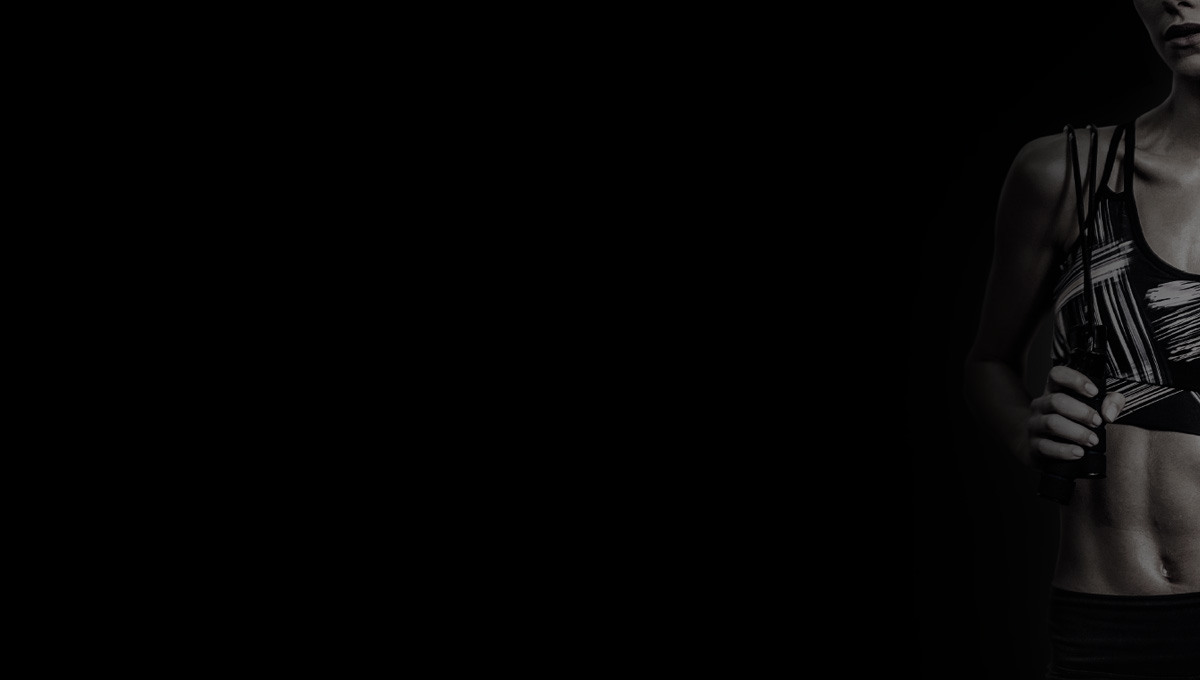
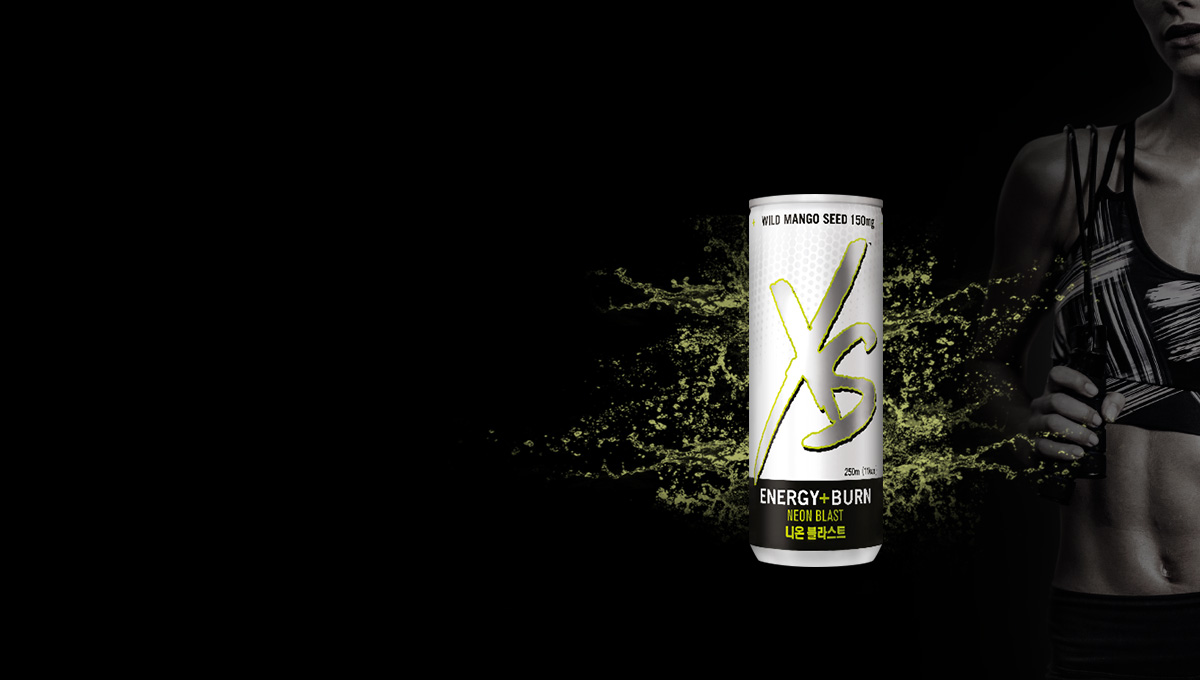
xs에너지 드링크

Changed region(s): [[0.4625, 0.2779, 0.8942, 0.8338]]

diff --git a/_ui/responsive/html/brand/B20306.html b/_ui/responsive/html/brand/B20306.html
@@ -145,30 +145,53 @@
 				<div class="tab-content tabs-content-blocks">
 					<div class="tab-pane content-block active">
 <style>
-.xsenergy .item .txt-wrap .ex-wrap span:before {content:'';display:inline-block;position:absolute;top:0;}
+.xs_subpage .item .txt-wrap .ex-wrap span:before,
+.xs_subpage .item .ex-wrap2 .icon-wrap span:before {content:'';display:inline-block;position:absolute;top:0;}
 /* owl */
-.xsenergy .owl-nav .owl-prev, .xsenergy .owl-nav .owl-next,
-.xsenergy .owl-nav .owl-prev:hover, .xsenergy .owl-nav .owl-next:hover {height:45px;width:20px; background-size:20px 43px !important;}
-.xsenergy .owl-dots {left:auto;right:auto;width:100%;text-align:center;}
-.xsenergy .owl-dots .owl-dot.active span {background:#fff;} 
+.xs_subpage .owl-nav .owl-prev, .xs_subpage .owl-nav .owl-next,
+.xs_subpage .owl-nav .owl-prev:hover, .xs_subpage .owl-nav .owl-next:hover {top:33%;height:45px;width:20px; background-size:20px 43px !important;}
+.xs_subpage .owl-dots {left:auto;right:auto;top:630px;width:100%;text-align:center;}
+.xs_subpage .owl-dots .owl-dot.active span {background:#fff;} 
 
-.xsenergy .wide3 {width:100%;}
-.xsenergy .item {position:relative;} 
-.xsenergy .item .view-img-item img {display:block;position:absolute;top:50%;right:10%;transform:translateY(-50%);width:auto;}
-.xsenergy .item .txt-wrap {padding:50px 95px;}
-.xsenergy .item .txt-wrap .view-img-item img {width:auto;}
-.xsenergy .item .txt-wrap > p:nth-of-type(1) {color: transparent;margin-bottom:40px;width:126px;height:31px;background:url('/_ui/responsive/theme-blue/images/akl_brand/xs_energy/img_logo1.png') no-repeat 0 0;}
-.xsenergy .item .txt-wrap > p:nth-of-type(2) {margin-bottom:10px;font-size:18px;}
-.xsenergy .item .txt-wrap > p:nth-of-type(3) {margin-bottom:40px;font-size:16px;font-weight:400;color:#bbb;}
-.xsenergy .item .txt-wrap > h2 {margin:0 0 30px;font-size:50px;font-weight:700;color:#c3d200;}
-.xsenergy .item .txt-wrap > p:nth-of-type(4) {margin:40px 0 50px;}
-.xsenergy .item .txt-wrap .ex-wrap span{position:relative;display:inline-block;padding-top:80px;width:80px;color:#bbb;font-size:14px;font-weight:400;text-align:center;}
-.xsenergy .item .txt-wrap .ex-wrap span:before {margin:auto;width:60px;height:60px;background:url('/_ui/responsive/theme-blue/images/akl_brand/xs_energy/xs_icon01.png') no-repeat 0 10px;}
-.xsenergy .item .txt-wrap .ex-wrap span:nth-child(2):before {background-position-x:-90px;}
-.xsenergy .item .txt-wrap .ex-wrap span:nth-child(3):before {background-position-x:-180px;}
+
+.xs_subpage {position:relative;}
+.xs_subpage .main-brn-wrap {width:100%;}
+.xs_subpage .item {position:relative;}
+.xs_subpage .item section:nth-child(1) {height:680px;background:url(/_ui/responsive/theme-blue/images/akl_brand/xs_energy/img_drink_bnr01.jpg) no-repeat 100% 0;} 
+.xs_subpage .item .txt-wrap {padding:50px 95px;}
+.xs_subpage .item .txt-wrap > p:nth-of-type(1) {color: transparent;margin-bottom:40px;width:126px;height:31px;background:url('/_ui/responsive/theme-blue/images/akl_brand/xs_energy/img_logo1.png') no-repeat 0 0;}
+.xs_subpage .item .txt-wrap > p:nth-of-type(2) {margin-bottom:10px;font-size:18px;}
+.xs_subpage .item .txt-wrap > p:nth-of-type(3) {margin-bottom:40px;font-size:16px;font-weight:400;color:#bbb;}
+.xs_subpage .item .txt-wrap > h2 {margin:0 0 30px;font-size:50px;font-weight:700;color:#c3d200;}
+.xs_subpage .item .txt-wrap > p:nth-of-type(4) {margin:40px 0 50px;}
+.xs_subpage .item .txt-wrap .ex-wrap span{position:relative;display:inline-block;padding-top:80px;width:80px;color:#bbb;font-size:14px;font-weight:400;text-align:center;}
+.xs_subpage .item .txt-wrap .ex-wrap span:before {margin:auto;width:60px;height:60px;background:url('/_ui/responsive/theme-blue/images/akl_brand/xs_energy/xs_icon01.png') no-repeat 0 10px;}
+.xs_subpage .drink1 .txt-wrap .ex-wrap span:nth-child(1):before {background-position-x:0px;}
+.xs_subpage .drink1 .txt-wrap .ex-wrap span:nth-child(2):before {background-position-x:-90px;}
+.xs_subpage .drink1 .txt-wrap .ex-wrap span:nth-child(3):before {background-position-x:-180px;}
+
+.xs_subpage .item section:nth-child(2) {width:-webkit-calc(100% - 33.33%);width:calc(100% - 33.33%);position:relative;}
+.xs_subpage .item .ex-wrap2 {position:absolute;top:0;left:0;width:100%;text-align:center;word-wrap:break-word;}
+.xs_subpage .item .ex-wrap2 > p {margin-top:6%;font-size:22px;font-weight:500;letter-spacing:0}
+.xs_subpage .drink1 .ex-wrap2 > p span {color:#c3d200;}
+.xs_subpage .drink2 .ex-wrap2 > p span {color:#c3d200;}
+.xs_subpage .drink3 .ex-wrap2 > p span {color:#c3d200;}
+.xs_subpage .drink4 .ex-wrap2 > p span {color:#c3d200;}
+.xs_subpage .item .ex-wrap2 .icon-wrap {margin:6% auto 0;text-align:center;}
+.xs_subpage .item .ex-wrap2 .icon-wrap span {position:relative;display:inline-block;padding-top:95px;width:120px;font-size:16px;line-height:1.5;vertical-align:top;letter-spacing:-2px;}
+.xs_subpage .item .ex-wrap2 .icon-wrap span:before {width:84px;height:84px;left:50%;margin-left:-42px;background:url('/_ui/responsive/theme-blue/images/akl_brand/xs_energy/xs_icon01.png') no-repeat -270px 0;}
+.xs_subpage .drink1 .ex-wrap2 .icon-wrap span:nth-child(1):before {background-position-x:-270px;}
+.xs_subpage .drink1 .ex-wrap2 .icon-wrap span:nth-child(2):before {background-position-x:-360px;}
+.xs_subpage .drink1 .ex-wrap2 .icon-wrap span:nth-child(3):before {background-position-x:-450px;}
+.xs_subpage .drink1 .ex-wrap2 .icon-wrap span:nth-child(4):before {background-position-x:-540px;}
+.xs_subpage .drink1 .ex-wrap2 .icon-wrap span:nth-child(5):before {background-position-x:-630px;}
+
+.xs_subpage .video1 {position:absolute;top:680px;right:0;}
+.xs_subpage .video1.rela {position:relative;top:auto;right:auto;}
+
 
 /* 상품에 따라 칼라, 아이콘 변경 */
-.drink1 {}
+.drink1 {}/*color:#c3d200*/
 .drink2 {}
 .drink3 {}
 .drink4 {}
@@ -179,59 +202,78 @@
 .nuts {}
 .chip {}
 
+@media (max-width: 1024px){
+	.xs_subpage .item .txt-wrap {padding-top:25px;padding-left:50px;}
+	.xs_subpage .item section:nth-child(2) {width:100% !important;}
+	.xs_subpage .video1 {position:relative;top:auto;right:auto;}
+}
+
+
 </style>
-						<ul class="xsenergy_mainlist xsenergy">
-							<li class="wide3">
+						<ul class="xsenergy_mainlist xs_subpage">
+							<li class="main-brn-wrap">
 								<div id="banner_list" class="owl-carousel owl-theme">
+									<!-- item1 -->
 									<div class="item drink1">
-										<img class="" src="/_ui/responsive/theme-blue/images/akl_brand/xs_energy/img_drink_bnr01.jpg" alt="">
-										<div class="view-img-item"><img class="" src="/_ui/responsive/theme-blue/images/akl_brand/xs_energy/img_drink_bnr01_item.png" alt=""></div>
-										<div class="txt-wrap">
-											<p>XS ENERGY</p>
-											<p>초콜릿의 달콤함과 풍부한 식감으로 에너지 UP!</p>
-											<h2>XS 에너지 바</h2>
-											<p>- 초콜릿 엔로빙으로 한층 더 부드러워진 풍미<br>
-												- 오트(귀리) 퍼프로 더 크런치해진 식감<br>
-												- 비타민 B군 함유로 에너지 플러스(나이아신, 판토텐산,비타민 B2)
-											</p>
-											<p><a href="#" class="bt-akl-blue">구매하기</a></p>
-											<p class="ex-wrap"><span>와일드 <br>망고씨유 함유</span><span>카페인 <br>0mg</span><span>풍부한 <br>비타민B</span></p>
-										</div>
+										<section>
+											<div class="view-img"><img class="mob" src="" alt="XSenergy+burn 네온 블라스트"></div>
+											<div class="txt-wrap">
+												<p>XS ENERGY</p>
+												<p>XS 네온 블라스트로 에너지 BURN!</p>
+												<h2>XS NEON BLAST</h2>
+												<p>CALORIE DOWN! ENERGY UP!</p>
+												<p><a href="http://www.abnkorea.co.kr/shop/nutrition-health/xs-energy/p/284571K" class="bt-akl-blue">구매하기</a></p>
+												<p class="ex-wrap"><span>와일드 <br>망고씨유 함유</span><span>카페인 <br>0mg</span><span>풍부한 <br>비타민B</span></p>
+											</div>
+										</section>
+										<section>
+											<div class="view-img"><img src="/_ui/responsive/theme-blue/images/akl_brand/xs_energy/img_drink_bnr01_bg.jpg" alt="" /></div>
+											<div class="ex-wrap2">
+												<p><span>XS RED BLAST</span>가 필요할 때!</p>
+												<div class="icon-wrap">
+													<span>몸매 관리에 관심이 있을 때</span>
+													<span>운동 전/후 에너지 번이 필요할 때</span>
+													<span>기분 전환이 필요할 때</span>
+													<span>가벼워진 기분을 느끼고 싶을 때</span>
+													<span>야외활동이 기다리고 있을 때</span>
+												</div>
+											</div>
+										</section>
 									</div>
+									<!-- item1 -->
 									<div class="item drink2">
-										<div class="item ">
-										<img class="" src="/_ui/responsive/theme-blue/images/akl_brand/xs_energy/img_drink_bnr02.jpg" alt="">
-										<div class="view-img-item"><img class="" src="/_ui/responsive/theme-blue/images/akl_brand/xs_energy/img_drink_bnr02_item.png" alt=""></div>
-										<div class="txt-wrap">
-											<p>XS ENERGY</p>
-											<p>초콜릿의 달콤함과 풍부한 식감으로 에너지 UP!</p>
-											<h2>XS 에너지 바</h2>
-											<p>- 초콜릿 엔로빙으로 한층 더 부드러워진 풍미<br>
-												- 오트(귀리) 퍼프로 더 크런치해진 식감<br>
-												- 비타민 B군 함유로 에너지 플러스(나이아신, 판토텐산,비타민 B2)
-											</p>
-											<p><a href="#" class="bt-akl-blue">구매하기</a></p>
-											<p class="ex-wrap"><span>와일드 <br>망고씨유 함유</span><span>카페인 <br>0mg</span><span>풍부한 <br>비타민B</span></p>
-										</div>
+										<section>
+											<div class="view-img"><img class="mob" src="" alt="XSenergy+burn 레드 블라스트"></div>
+											<div class="txt-wrap">
+												<p>XS ENERGY</p>
+												<p>XS 레드 블라스트로 에너지 BURN!</p>
+												<h2>XS RED BLAST</h2>
+												<p>CALORIE DOWN! ENERGY UP!</p>
+												<p><a href="http://www.abnkorea.co.kr/shop/nutrition-health/xs-energy/p/284571K" class="bt-akl-blue">구매하기</a></p>
+												<p class="ex-wrap"><span>와일드 <br>망고씨유 함유</span><span>카페인 <br>0mg</span><span>풍부한 <br>비타민 C</span><span>풍부한 <br>비타민 B</span></p>
+											</div>
+										</section>
+										<section>
+											<div class="view-img"><img src="/_ui/responsive/theme-blue/images/akl_brand/xs_energy/img_drink_bnr01_bg.jpg" alt="" /></div>
+											<div class="ex-wrap2">
+												<p><span>XS RED BLAST</span>가 필요할 때!</p>
+												<div class="icon-wrap">
+													<span>몸매 관리에 관심이 있을 때</span>
+													<span>운동 전/후 에너지 번이 필요할 때</span>
+													<span>기분 전환이 필요할 때</span>
+													<span>가벼워진 기분을 느끼고 싶을 때</span>
+													<span>야외활동이 기다리고 있을 때</span>
+												</div>
+											</div>
+										</section>
 									</div>
+									<!-- item1 -->
 									<div class="item">
 									</div>
+									
 								</div>
 							</li>
-							<li class="wide1">
-								<div id="banner_list2" class="owl-carousel owl-theme">
-									<div class="item drink1">
-										<div class="view-img"><img src="/_ui/responsive/theme-blue/images/akl_brand/xs_energy/img_drink_bnr01_bg.jpg" alt="" /></div>
-									</div>
-									<div class="item drink2">
-										<div class="view-img">22</div>
-									</div>
-									<div class="item">
-										<div class="view-img"><img src="/_ui/responsive/theme-blue/images/akl_brand/xs_energy/img_drink_bnr01_bg.jpg" alt="" /></div>
-									</div>
-								</div>
-							</li>
-							<li>
+							<li class="video1">
 								<div class="view-img"><img src="/_ui/responsive/theme-blue/images/akl_brand/xs_energy/img_bnr06.jpg" alt="" /></div>
 								<div class="txt-wrap">
 									<em>MULTIMEDIA</em><span>[XS Energy Drink]<br>5K Night Run 하이라이트 영상</span>
@@ -305,15 +347,15 @@
 				margin: 0,
 				items: 1
 			});
-			$('#banner_list2').owlCarousel({
-				loop: false,
-				nav: false,
-				dots: false,
-				//autoplay: true,
-				//autoplayTimeout:5000,
-				margin: 0,
-				items: 1
-			});
+			
+			/*var video1 = $('.xsenergy_mainlist li.video1');
+			var mainbnr =   $('.main-brn-wrap .item section:first-child');
+			var mainbnrHeight = mainbnr.height();
+			*/
+			
+			//
+			
+			
 		})
 	</script>
 	

diff --git a/_ui/responsive/theme-blue/css/akl-brand.css b/_ui/responsive/theme-blue/css/akl-brand.css
@@ -16,7 +16,7 @@ Editor : HYEWON HWANG
 .brand .full {width:100%;}
 .brand .inblock {display:inline-block;}
 
-.brand {letter-spacing:-1px;word-spacing:1px;}
+.brand {letter-spacing:-1px;}
 .arr1 {position:relative;display:inline-block;} /* 오른쪽 화살표 > */
 .arr1:after {content:'';position:absolute;top:50%;right:-9px;width:7px;height:7px;transform:rotate(45deg) translatey(-50%);border:2px solid #fff;border-width:2px 2px 0 0;}
 
@@ -464,7 +464,7 @@ Editor : HYEWON HWANG
 .atmosphere .txtbox.s3 div {left:19%;top:35%;}
 
 /* XS 에너지 */
-.xsenergy_mainlist {width:100%;overflow:hidden;background:#000;}
+.xsenergy_mainlist {position:relative;width:100%;overflow:hidden;background:#000;}
 .xsenergy_mainlist li {float:left;width:33.33%;position:relative;}
 .xsenergy_mainlist li.wide1 {width:66.65%;}
 .xsenergy_mainlist li.wide2 {width:66.67%;}
@@ -485,16 +485,13 @@ Editor : HYEWON HWANG
 	.xsenergy_mainlist li {width:50%;}
 	.xsenergy_mainlist li[class*='wide']{width:100%;margin:0 !important;}
 	.xsenergy_mainlist li.wide3 {width:50%;}
-	.xsenergy_mainlist li:nth-child(10) .pc {display:none;}
-	.xsenergy_mainlist li:nth-child(10) .mob {display:block;}
-	.xsenergy_mainlist li:nth-child(11) {display:none;}
-	
-	.xsenergy_mainlist.xsenergy li.wide3 {width:100%;}
+	.xsenergy_mainlist li:last-child .pc {display:none;}
+	.xsenergy_mainlist li:last-child .mob {display:block;}
 }
 @media (max-width: 768px){
-	.xsenergy_mainlist .video-btn img {width:70px;height:70px;margin:-5% 0 0 -35px;}
+	/*.xsenergy_mainlist .video-btn img {width:70px;height:70px;margin:-5% 0 0 -35px;}*/
 }
-@media (max-width: 630px){
+@media (max-width: 750px){
 	.xsenergy_mainlist li {width:100% !important;}
 	.xsenergy_mainlist li.wide1 .txt-wrap {font-size:16px;}
 	.xsenergy_mainlist li.wide2 .txt-wrap .hashtag {font-size:18px;}
@@ -504,7 +501,6 @@ Editor : HYEWON HWANG
 
 
 @media (max-width: 768px){
-
 	/* ### 레이아웃 ### */
 	#brandMenu .select.form-control {width:100%;}
 	#brandMenu .breadcrumb li > div > div {position:relative;padding-right:10px;flex:1;min-width:33%;}

diff --git a/_ui/publishing_guide_brand.html b/_ui/publishing_guide_brand.html
@@ -2438,12 +2438,12 @@
 						<td></td>
 						<td class="file"><a href="responsive/html/brand/B20306.html" target="_blank">B20306.html</a></td>
 						<td>&nbsp;</td>
-						<td class="taCenter"></td>
-						<td class="taCenter"></td>
-						<td class="taCenter"></td>
+						<td class="taCenter">●</td>
+						<td class="taCenter">●</td>
+						<td class="taCenter">●</td>
 						<td class="taCenter">&nbsp;</td>
 						<td class="taCenter"></td>
-						<td class="statD"></td>
+						<td class="statD">○</td>
 						<td class="stat"></td>
 						<td class="taCenter owner"><span class="partPlan">김낙기</span><span class="partDesign">김미영</span><span class="partPub">황혜원</span></td>
 						<td class="taCenter">2018.08.29</td>

diff --git a/_ui/responsive/theme-blue/js/akl_contents.js b/_ui/responsive/theme-blue/js/akl_contents.js
@@ -43,17 +43,15 @@ function xsEnergyHome(){
 	var $xsenergyList = $('.xsenergy_mainlist');
 	if(!$xsenergyList.length){return;}
 	
-	//var colmn = $xsenergyList.children('li').eq(8);
-	
 	var colmn = $xsenergyList.children('li:nth-last-child(2)');
 	var colmnHeight = colmn.height() + 0.01;
 	var windowWidth = $(window).width();
 	
+	
 	function colmnTop(){
 		colmn.css('margin-top',-colmnHeight+'px');
 	}
-	
-	console.log(colmnHeight);
+	//console.log(colmnHeight);
 	
 	if(windowWidth > 1024) {
 		colmnTop();
